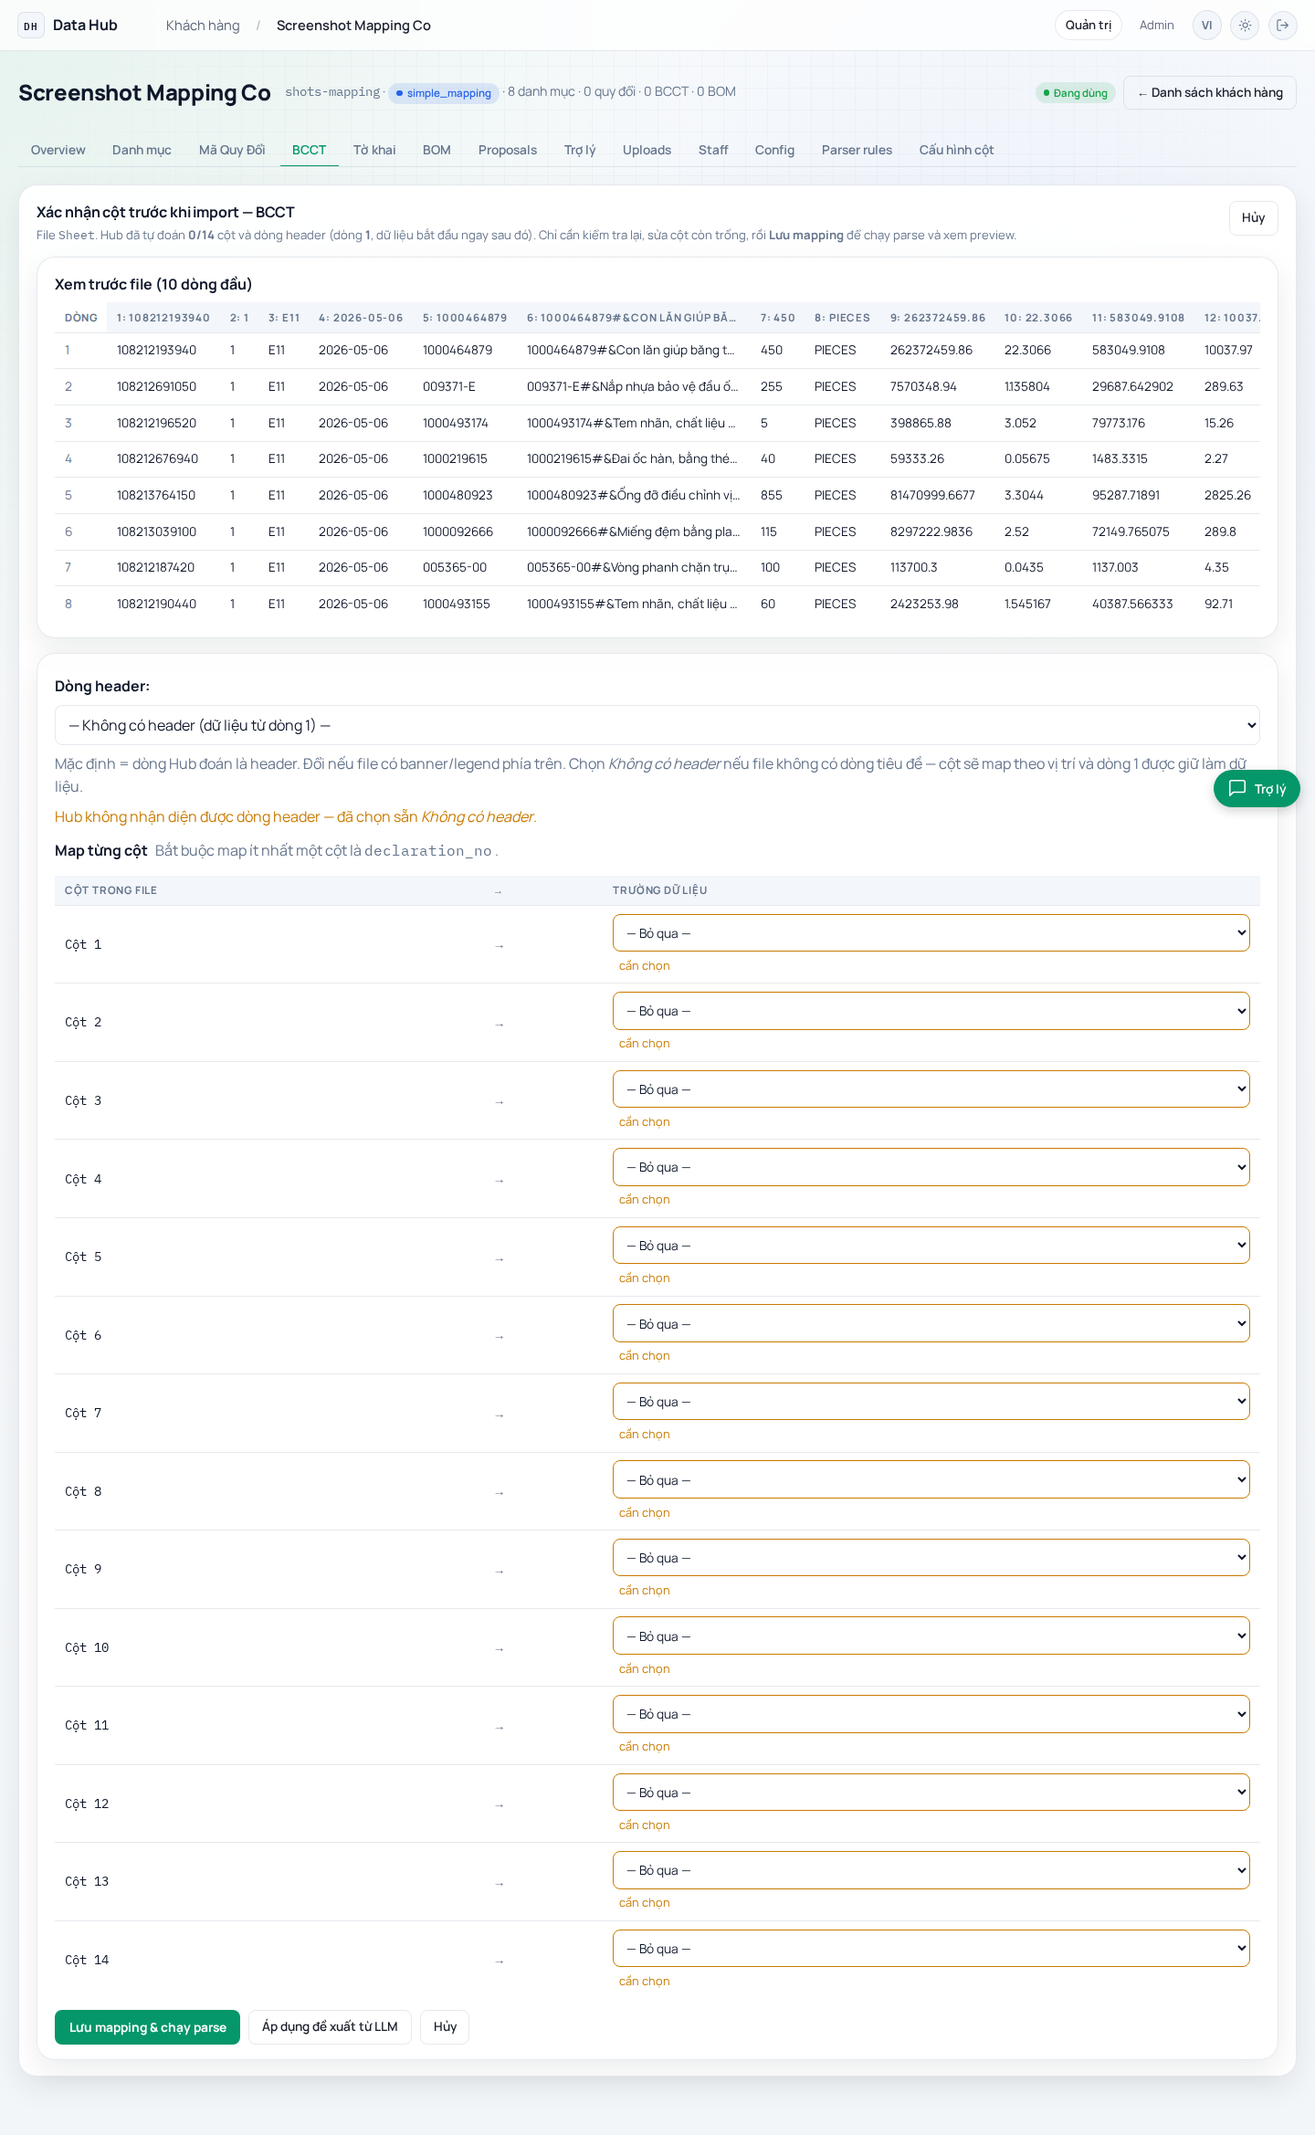
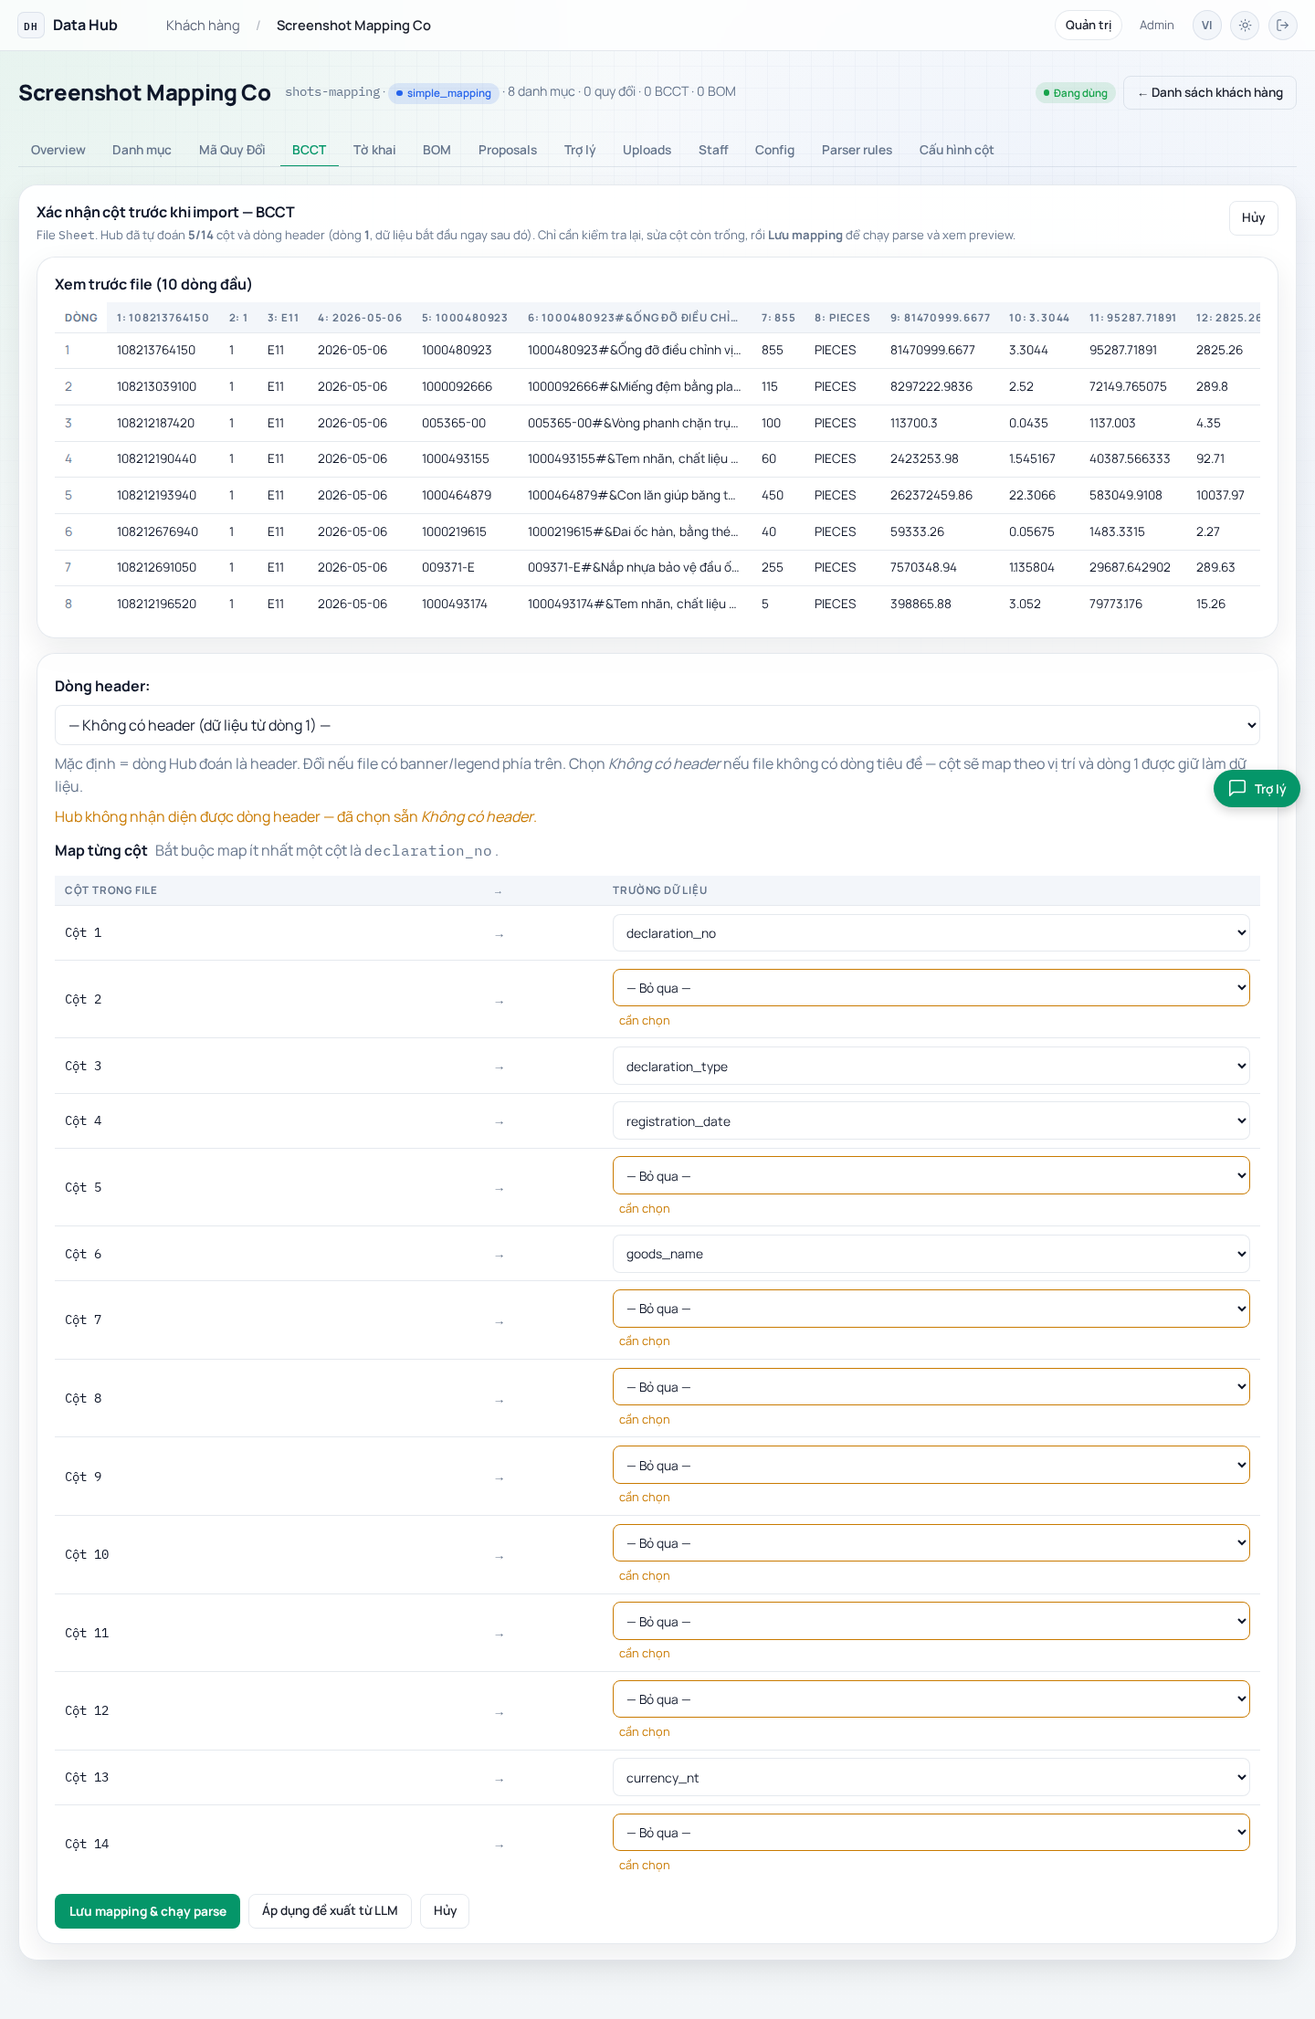
feat(bcct): no-header value inference + demote anomaly to advisory
No-header: app/parsers/bcct_infer.py infers the DISTINCTIVE columns from
value patterns (declaration_no, date, declaration_type, currency, hs_code,
hyphen/letter customs code, goods_name) and pre-fills them on the
positional mapping page, so the operator only maps the ambiguous numeric
columns instead of all of them. Bare-digit SAP codes aren't inferable by
value alone — left for the user.

Anomaly: demote the price-inversion check from a hard gate (confirm
checkbox + server-side 400) to a non-blocking advisory pointing at the
Diff. Auto-map already prevents the original swap for standard files and
the Diff is the real review surface; the gate added confusion for little
gain. Detector unchanged and intentionally NOT expanded.

Tests updated for advisory behavior; new inference tests. Screenshots
regenerated (05 shows inferred pre-fills, 04 shows advisory copy).

diff --git a/app/templates/clients/bcct_upload_preview.html b/app/templates/clients/bcct_upload_preview.html
@@ -52,13 +52,10 @@
     {% include "clients/_uom_drift_banner.html" ignore missing %}
     {% if anomalies %}
     <div class="zone mini-panel anomaly-panel" style="margin-bottom: 1rem;">
-      <strong>⚠ Cảnh báo bất thường dữ liệu</strong>
+      <strong>⚠ Lưu ý — kiểm tra lại cột ở phần Diff bên dưới</strong>
       <ul style="margin: 0.5rem 0 0 1.2rem;">
         {% for a in anomalies %}
         <li style="margin-bottom: 0.4rem;">
-          <span class="badge {% if a.severity == 'block' %}badge-danger{% else %}badge-warn{% endif %}">
-            {{ 'CHẶN' if a.severity == 'block' else 'lưu ý' }}
-          </span>
           {{ a.message }}
           {% if a.samples %}
           <details>
@@ -79,12 +76,7 @@
         </li>
         {% endfor %}
       </ul>
-      {% if anomaly_blocks_confirm %}
-      <label class="checkbox-label" style="margin-top: 0.5rem;">
-        <input type="checkbox" name="confirm_anomalies" id="confirm_anomalies">
-        <span>Đã kiểm tra ánh xạ cột là đúng — vẫn ghi đè bất chấp cảnh báo.</span>
-      </label>
-      {% endif %}
+      <p class="meta" style="margin-top: 0.4rem;">Đây là cảnh báo, không chặn lưu.</p>
     </div>
     {% endif %}
     {% if summary.diff %}
@@ -159,16 +151,4 @@
     {% endif %}
   </form>
 </section>
-{% if anomaly_blocks_confirm %}
-<script>
-  (function () {
-    var ack = document.getElementById('confirm_anomalies');
-    var btn = document.querySelector('#confirm-form button[type=submit]');
-    if (!ack || !btn) return;
-    function sync() { btn.disabled = !ack.checked; }
-    ack.addEventListener('change', sync);
-    sync();
-  })();
-</script>
-{% endif %}
 {% endblock %}

diff --git a/app/parsers/bcct_infer.py b/app/parsers/bcct_infer.py
@@ -1,0 +1,99 @@
+"""Infer BCCT column → field by VALUE patterns, for headerless files.
+
+When a file has no header row the rigid alias match resolves nothing, so
+the operator would otherwise map all columns by hand. This pre-fills the
+DISTINCTIVE columns (declaration number, date, declaration type, currency,
+HS code, material code, exchange rate, goods name) from the data itself.
+The purely-numeric soup (quantity / unit_price / total_value …) is left
+unmapped on purpose — the values alone can't tell them apart reliably.
+"""
+from __future__ import annotations
+
+from datetime import datetime
+
+from app.parsers.bcct import EXPORT_TYPES, IMPORT_TYPES
+
+_DECL_TYPES = IMPORT_TYPES | EXPORT_TYPES
+_DATE_FORMATS = ("%d/%m/%Y", "%Y-%m-%d", "%d-%m-%Y", "%d.%m.%Y", "%Y/%m/%d")
+
+
+def _s(v) -> str:
+    return "" if v is None else str(v).strip()
+
+
+def _is_date(v: str) -> bool:
+    for fmt in _DATE_FORMATS:
+        try:
+            datetime.strptime(v[:10], fmt)
+            return True
+        except ValueError:
+            continue
+    return False
+
+
+def _is_float(v: str):
+    try:
+        return float(v.replace(",", ""))
+    except ValueError:
+        return None
+
+
+# Ordered high-confidence column detectors. Each returns True if the column
+# (its non-empty sample values) looks like that field. Order matters: more
+# specific fields first; each field is assigned to at most one column.
+def _frac(values, pred) -> float:
+    return sum(1 for v in values if pred(v)) / len(values) if values else 0.0
+
+
+def _detect(values: list[str]) -> str | None:
+    if not values:
+        return None
+    # Declaration number: 11-12 digit code (tight length avoids colliding
+    # with large integer money columns).
+    if _frac(values, lambda v: v.isdigit() and 11 <= len(v) <= 12) >= 0.8:
+        return "declaration_no"
+    if _frac(values, lambda v: v.upper() in _DECL_TYPES) >= 0.8:
+        return "declaration_type"
+    if _frac(values, _is_date) >= 0.8:
+        return "registration_date"
+    # Currency: 3 UPPERCASE letters (USD/EUR/JPY) — uppercase guard keeps
+    # mixed-case unit codes out.
+    if _frac(values, lambda v: len(v) == 3 and v.isalpha() and v.isupper()) >= 0.8:
+        return "currency_nt"
+    # Goods name FIRST (before customs_code): free text — has a space, the
+    # "#&" goods separator, or is long. BCCT goods names embed the material
+    # code ("005365-00#&Vòng phanh…"), which would otherwise look like a
+    # customs_code; the separator/length tells them apart.
+    if _frac(values, lambda v: ("#&" in v or " " in v or len(v) > 20)
+             and _is_float(v) is None) >= 0.7:
+        return "goods_name"
+    if _frac(values, lambda v: v.isdigit() and len(v) == 8) >= 0.8:
+        return "hs_code"
+    # Material/customs code: SHORT alphanumeric (no spaces, no "#&")
+    # containing a non-digit (letter or hyphen), not a date. (Numeric
+    # money/rate columns are NOT inferred — their values alone can't be told
+    # apart, so the operator fills them.)
+    if _frac(values, lambda v: len(v) <= 20 and " " not in v and "#&" not in v
+             and any(ch.isdigit() for ch in v)
+             and any((ch.isalpha() or ch in "-/") for ch in v)
+             and not _is_date(v)) >= 0.8:
+        return "customs_code"
+    return None
+
+
+def infer_bcct_columns_by_values(data_rows: list[list]) -> dict[int, str]:
+    """Return {0-based col index → field} for the columns whose VALUES match
+    a distinctive field pattern. Each field is assigned once (first column
+    wins); ambiguous numeric columns are omitted."""
+    if not data_rows:
+        return {}
+    n_cols = max(len(r) for r in data_rows)
+    mapping: dict[int, str] = {}
+    used: set[str] = set()
+    for j in range(n_cols):
+        values = [_s(r[j]) for r in data_rows if j < len(r) and _s(r[j])]
+        field = _detect(values)
+        if field and field not in used:
+            mapping[j] = field
+            used.add(field)
+    return mapping

diff --git a/app/routes/bcct.py b/app/routes/bcct.py
@@ -814,11 +814,10 @@ async def upload_preview_view(request: Request, client_id: str, pending_id: str)
         if isinstance(r, dict)
     ]
     uom_drifts = compute_uom_drifts(client_id, drift_input)
-    # Phase 2: price/value column-inversion anomaly net. Computed from the
-    # stashed parsed rows; a clear inversion is a hard gate (needs ack).
-    from app.parsers.bcct_validate import (
-        detect_price_anomalies, has_blocking_anomaly,
-    )
+    # Price/value column-inversion anomaly net — ADVISORY only (the Diff
+    # below is the operator's review surface; auto-map already prevents the
+    # original swap for standard files). Surfaced as a non-blocking warning.
+    from app.parsers.bcct_validate import detect_price_anomalies
     anomalies = detect_price_anomalies(
         [r for r in (parsed_rows or []) if isinstance(r, dict)]
     )
@@ -833,7 +832,6 @@ async def upload_preview_view(request: Request, client_id: str, pending_id: str)
             "uom_drifts": uom_drifts,
             "uom_drift_blocks_confirm": has_blocking_drift(uom_drifts),
             "anomalies": anomalies,
-            "anomaly_blocks_confirm": has_blocking_anomaly(anomalies),
         },
     )
 
@@ -961,29 +959,6 @@ async def upload_preview_confirm(request: Request, client_id: str, pending_id: s
     form = await request.form()
     confirm_diffs = form.get("confirm_diffs") == "on"
     confirm_orphans = form.get("confirm_orphans") == "on"
-    confirm_anomalies = form.get("confirm_anomalies") == "on"
-
-    # Phase 2 hard gate: a clear price/value column inversion must be
-    # explicitly acked before commit. Re-detect from the stashed rows
-    # (server-side, not UI-only) so a forged POST can't bypass it. Peek
-    # without consuming the pending row, so an unacked block leaves the
-    # upload recoverable.
-    if not confirm_anomalies:
-        with connect() as conn:
-            with conn.cursor() as cur:
-                cur.execute(
-                    "select parsed_rows from hub.upload_pending "
-                    "where pending_id = %s and client_id = %s and module = 'bcct'",
-                    (pending_id, client_id),
-                )
-                peek = cur.fetchone()
-        if peek:
-            from app.parsers.bcct_validate import (
-                detect_price_anomalies, has_blocking_anomaly,
-            )
-            peek_rows = [r for r in (peek[0] or []) if isinstance(r, dict)]
-            if has_blocking_anomaly(detect_price_anomalies(peek_rows)):
-                raise HTTPException(400, "anomaly_ack_required")
 
     # Single-use: DELETE in same tx as load. Double-click → second click 404s.
     with connect() as conn:

diff --git a/tests/test_bcct_no_header.py b/tests/test_bcct_no_header.py
@@ -99,6 +99,51 @@ def test_no_header_flow_keeps_all_rows(tmp_path, monkeypatch):
             cur.execute("delete from hub.users where user_id=%s", (uid,))
 
 
+def test_infer_distinctive_columns_by_value():
+    from app.parsers.bcct_infer import infer_bcct_columns_by_values
+    rows = [
+        ["108212187420", "1", "E11", "2026-05-18", "PE-001", "Nhựa PE nguyên sinh",
+         "100", "kg", "250000", "0.05", "1300", "9.5", "USD", "26138"],
+        ["108212187421", "2", "E42", "2026-05-19", "AL-200", "Nhôm tấm cán nguội",
+         "80", "kg", "200000", "0.04", "1100", "8.0", "USD", "26140"],
+    ]
+    m = infer_bcct_columns_by_values(rows)
+    assert m[0] == "declaration_no"
+    assert m[2] == "declaration_type"
+    assert m[3] == "registration_date"
+    assert m[4] == "customs_code"      # PE-001 / AL-200 are distinctive
+    assert m[5] == "goods_name"
+    assert m[13 - 1] == "currency_nt"  # idx 12
+    # ambiguous numeric columns are NOT inferred
+    for num_idx in (6, 8, 9, 10, 11):
+        assert num_idx not in m
+
+
+def test_infer_skips_pure_numeric_columns():
+    from app.parsers.bcct_infer import infer_bcct_columns_by_values
+    rows = [["100", "250", "1300"], ["80", "200", "1100"]]
+    assert infer_bcct_columns_by_values(rows) == {}
+
+
+def test_build_context_prefills_inferred_on_no_header():
+    from app.routes._mapping_flow import _build_mapping_context
+    from app.routes.bcct import BCCT_MAPPING_CFG
+    blob = _xlsx([
+        ("108212187420", "1", "E11", "2026-05-18", "PE-001", "Nhựa PE nguyên sinh",
+         "100", "kg", "250000", "0.05", "1300", "9.5", "USD", "26138"),
+        ("108212187421", "2", "E42", "2026-05-19", "AL-200", "Nhôm tấm",
+         "80", "kg", "200000", "0.04", "1100", "8.0", "USD", "26140"),
+    ])
+    ctx = _build_mapping_context(
+        client_id="no-such-client", upload_id="u", cfg=BCCT_MAPPING_CFG,
+        blob=blob, file_signature=None, extra={}, rigid_only=True)
+    assert ctx["suggest_no_header"] is True
+    proposed = {c["index"]: c["proposed"] for c in ctx["column_map"] if c["proposed"]}
+    assert proposed.get(0) == "declaration_no"
+    assert proposed.get(3) == "registration_date"
+    assert proposed.get(12) == "currency_nt"
+
+
 def test_headerless_file_suggests_no_header():
     from app.routes._mapping_flow import _build_mapping_context
     from app.routes.bcct import BCCT_MAPPING_CFG

diff --git a/tests/test_bcct_anomaly_gate.py b/tests/test_bcct_anomaly_gate.py
@@ -90,32 +90,23 @@ def _pending_exists() -> bool:
         return cur.fetchone() is not None
 
 
-def test_preview_shows_blocking_anomaly_and_ack(setup):
+def test_preview_shows_advisory_warning_no_gate(setup):
+    # Anomaly is ADVISORY: the warning shows, but there is no ack checkbox
+    # and the copy says it does not block saving.
     _stash(_inverted_rows())
     r = _http(setup).get(f"/clients/{CLIENT}/bcct/upload/preview/{PENDING}")
     assert r.status_code == 200, r.text
-    assert "Cảnh báo bất thường" in r.text
-    assert 'name="confirm_anomalies"' in r.text
+    assert "Lưu ý" in r.text and "unit_price" in r.text
+    assert "không chặn lưu" in r.text
+    assert 'name="confirm_anomalies"' not in r.text
 
 
-def test_confirm_blocked_without_ack(setup):
+def test_confirm_not_blocked_by_anomaly(setup):
+    # Confirm succeeds WITHOUT any anomaly ack — advisory, not a gate.
     _stash(_inverted_rows())
     r = _http(setup).post(
         f"/clients/{CLIENT}/bcct/upload/preview/{PENDING}/confirm",
         data={"confirm_diffs": "on", "confirm_orphans": "on"},
-        follow_redirects=False)
-    assert r.status_code == 400
-    assert r.json()["detail"] == "anomaly_ack_required"
-    # pending preserved → upload recoverable.
-    assert _pending_exists()
-
-
-def test_confirm_succeeds_with_ack(setup):
-    _stash(_inverted_rows())
-    r = _http(setup).post(
-        f"/clients/{CLIENT}/bcct/upload/preview/{PENDING}/confirm",
-        data={"confirm_diffs": "on", "confirm_orphans": "on",
-              "confirm_anomalies": "on"},
         follow_redirects=False)
     assert r.status_code == 303, r.text
     assert not _pending_exists()

diff --git a/scripts/smoke_bcct_flows.py b/scripts/smoke_bcct_flows.py
@@ -137,17 +137,16 @@ def main() -> int:
         results.append(("A auto-map→clean→apply", a1 and a2,
                         f"preview={a1} ingested={_count()} up({up})>up_nt({upnt})"))
 
-        # B — anomaly gate
+        # B — anomaly advisory (warning shown, does NOT block save)
         _wipe()
         r = _upload(_xlsx(rows, swap=True)); pid = r.headers["location"].rsplit("/", 1)[-1]
         pg = _get(f"/clients/{CLIENT}/bcct/upload/preview/{pid}")
-        b1 = "Cảnh báo bất thường" in pg.text and 'name="confirm_anomalies"' in pg.text
-        noack = _confirm(pid, confirm_diffs="on", confirm_orphans="on")
-        b2 = noack.status_code == 400 and noack.json().get("detail") == "anomaly_ack_required"
-        ack = _confirm(pid, confirm_diffs="on", confirm_orphans="on", confirm_anomalies="on")
-        b3 = ack.status_code == 303 and _count() == 8
-        results.append(("B anomaly gate block→ack→apply", b1 and b2 and b3,
-                        f"warn={b1} blocked={b2} acked_ingested={_count()}"))
+        b1 = "Lưu ý" in pg.text and "không chặn lưu" in pg.text \
+            and 'name="confirm_anomalies"' not in pg.text
+        cf = _confirm(pid, confirm_diffs="on", confirm_orphans="on")
+        b2 = cf.status_code == 303 and _count() == 8
+        results.append(("B anomaly advisory (warn, not blocking)", b1 and b2,
+                        f"warn={b1} confirmed_ingested={_count()}"))
 
         # C — no-header positional
         _wipe()

diff --git a/app/routes/_mapping_flow.py b/app/routes/_mapping_flow.py
@@ -562,6 +562,15 @@ def _build_mapping_context(
     n_proposed = sum(1 for c in column_map if c["proposed"])
     suggest_no_header = bool(column_map) and n_proposed == 0
 
+    # No-header: pre-fill the distinctive columns by VALUE pattern so the
+    # operator only fills the numeric ones, not all of them. BCCT-specific.
+    if suggest_no_header and cfg.name == "bcct":
+        from app.parsers.bcct_infer import infer_bcct_columns_by_values
+        inferred = infer_bcct_columns_by_values(raw_rows)
+        for col in column_map:
+            if col["index"] in inferred:
+                col["proposed"] = inferred[col["index"]]
+
     return {
         "upload_id": upload_id,
         "module": cfg.name,

diff --git a/.ai/features/2026-06-05-bcct-mapping-flow-overhaul/brief.md b/.ai/features/2026-06-05-bcct-mapping-flow-overhaul/brief.md
@@ -128,6 +128,23 @@ urgent. Each phase: tests first → implement → `/rev` → commit. UI proof
 (mapping page skip, preview warnings, admin config) committed under this
 feature folder's `screenshots/`.
 
+## Post-review adjustments (2026-06-05)
+
+- **No-header value inference** (`app/parsers/bcct_infer.py`): when a file
+  has no header, the distinctive columns (declaration_no 11-12 digits,
+  date, declaration_type, currency 3-upper, hs_code, hyphen/letter customs
+  code, goods_name) are pre-filled by value pattern so the operator only
+  maps the ambiguous numeric columns. Bare-digit SAP customs codes
+  (johnson `1000…`) are NOT inferable by value alone — left for the user.
+- **Anomaly demoted to ADVISORY** (was a hard gate). Rationale: auto-map
+  (Phase 1) already prevents the original swap for standard files, and the
+  Diff is the operator's real review surface; a blocking gate + ack
+  checkbox added confusion for little marginal safety. Now a non-blocking
+  warning ("Lưu ý … không chặn lưu") pointing at the Diff. Detector
+  unchanged (still only the VND↔nguyên-tệ price/value pairs — NOT a general
+  any-column-swap detector; deliberately not expanded to avoid false
+  positives).
+
 ## Verification
 
 - `scripts/smoke_bcct_flows.py` — real-data (johnson-vn) end-to-end smoke
